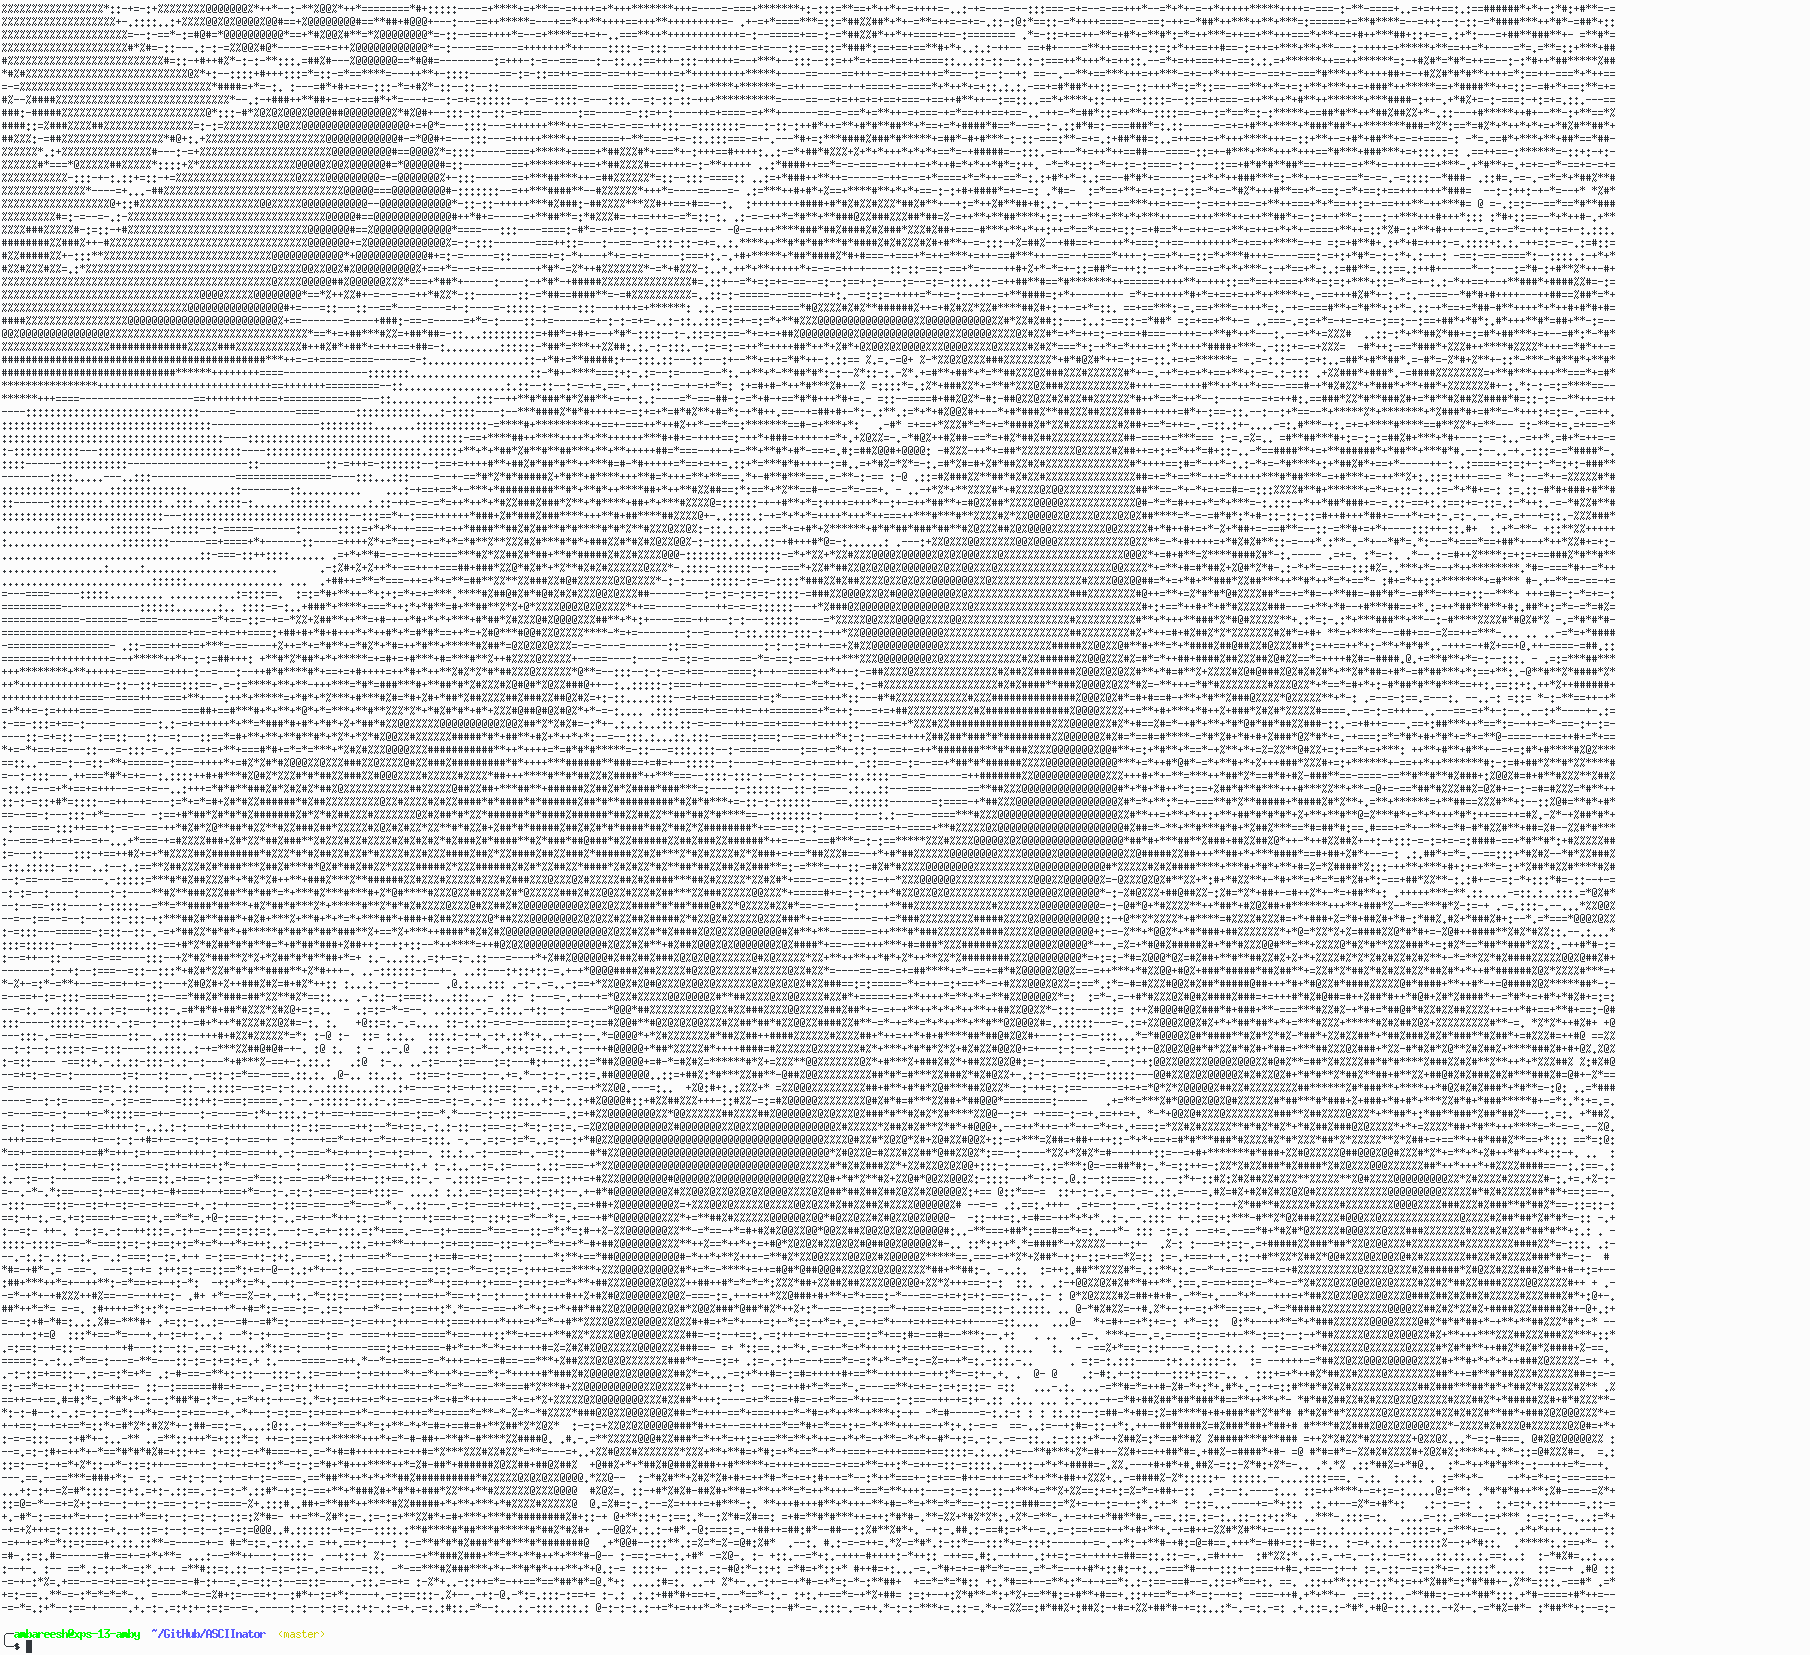
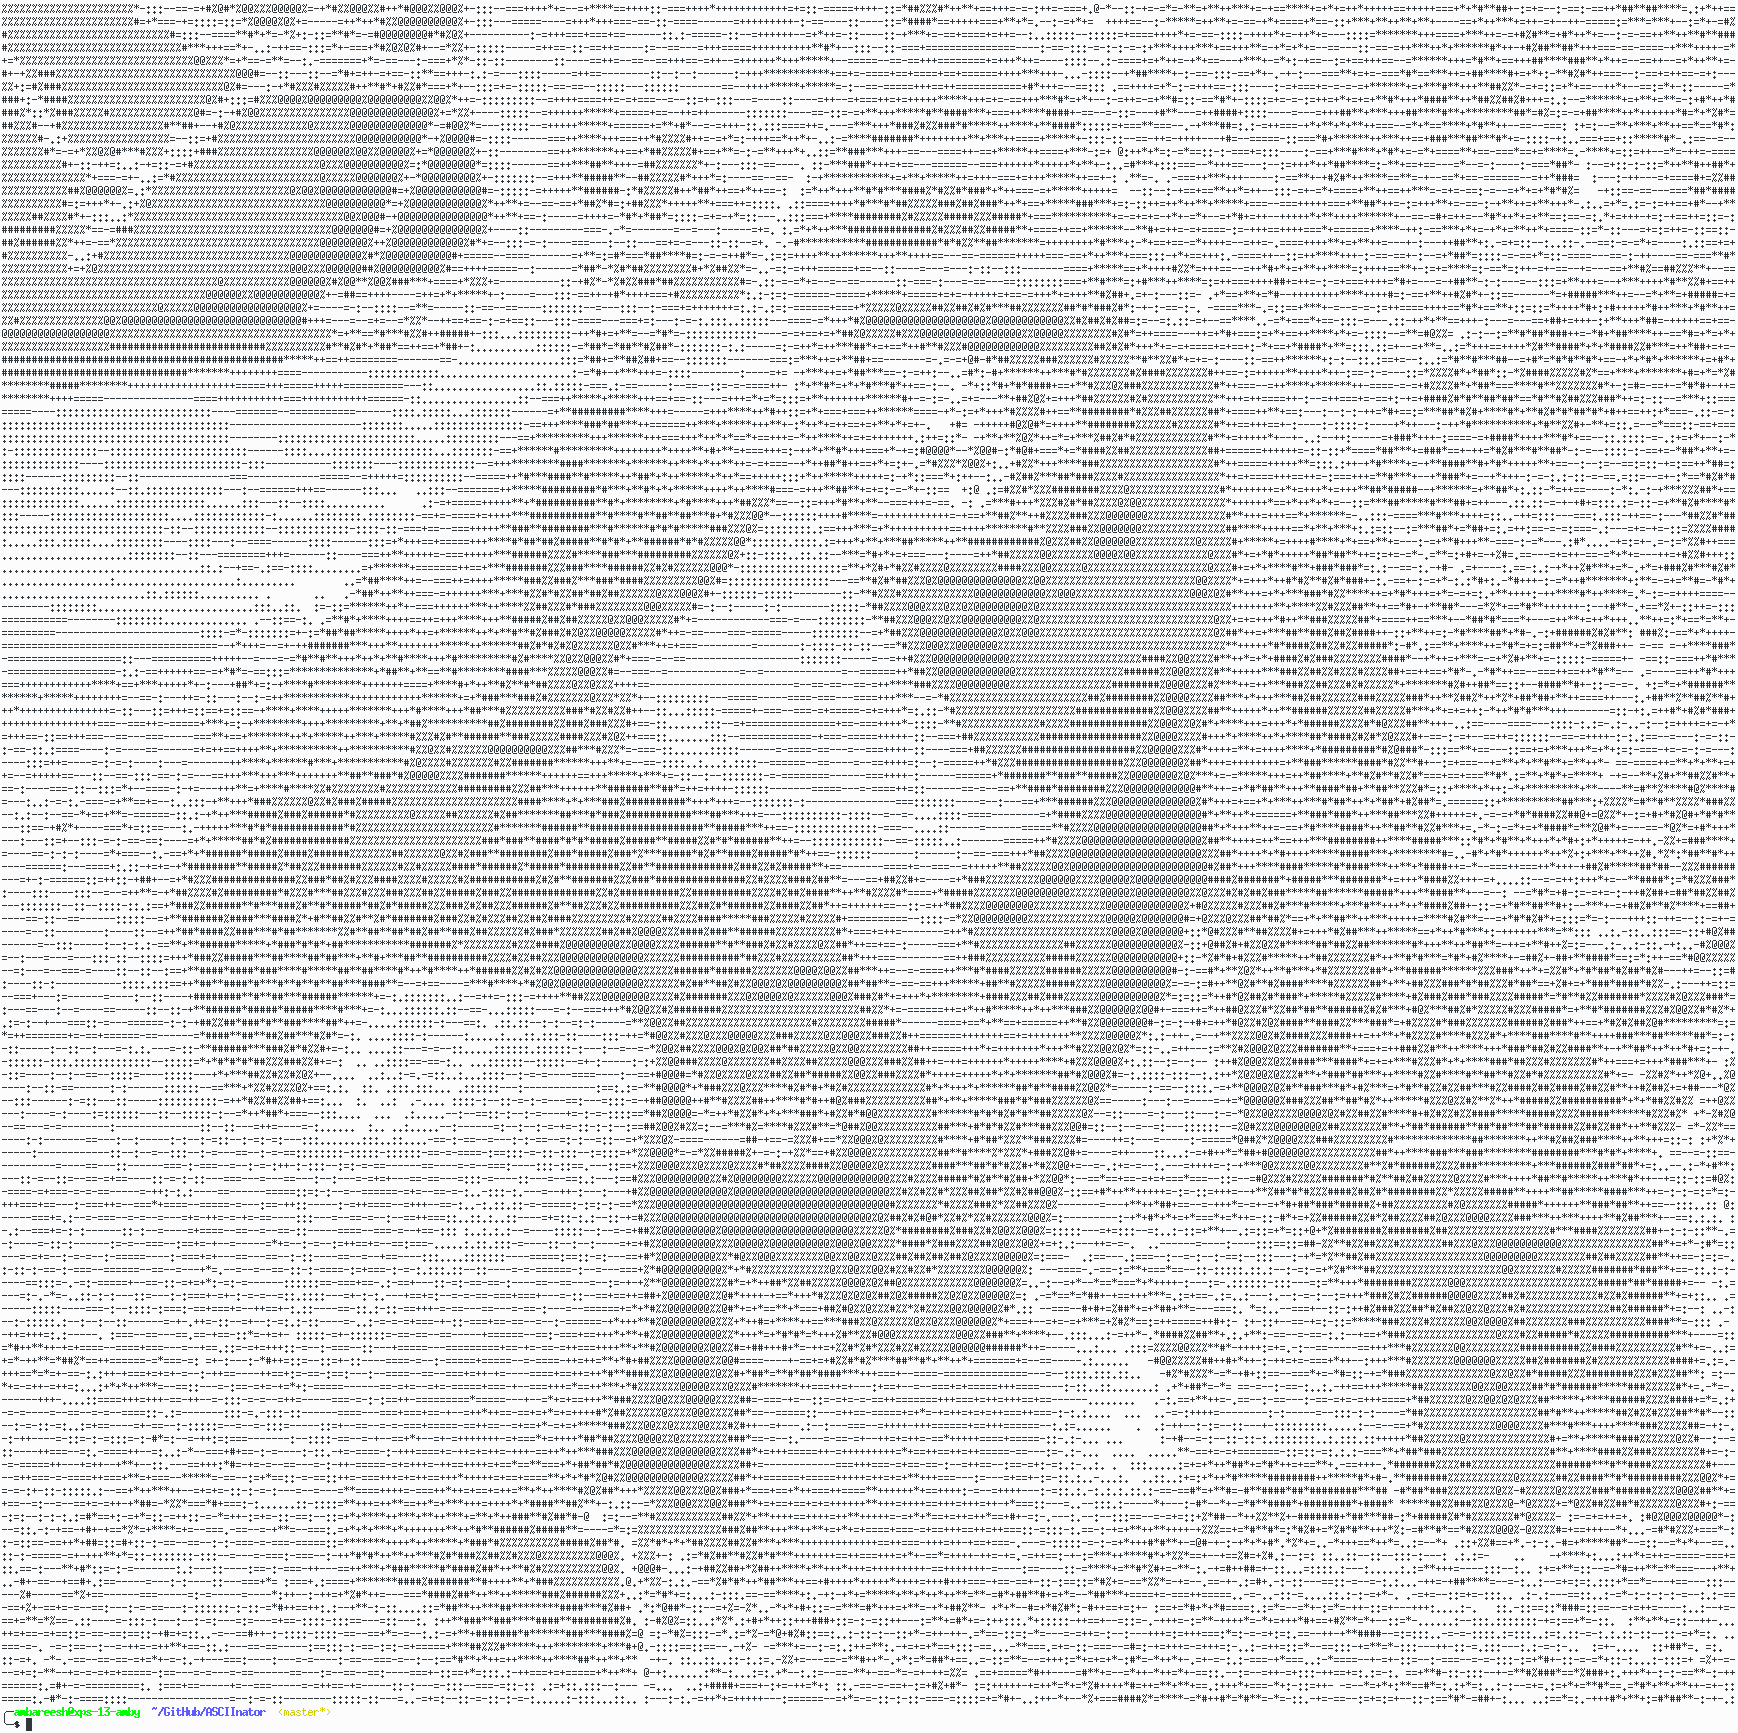
Update previews

diff --git a/README.md b/README.md
@@ -10,6 +10,10 @@ ASCII art:
 
 ![Harambe in grayscale](demo.png)
 
+ASCII art with high detail:
+
+![Harambe is high](demo-high.png)
+
 Pixel art:
 
 ![Harambe in color](demo-color.png)
